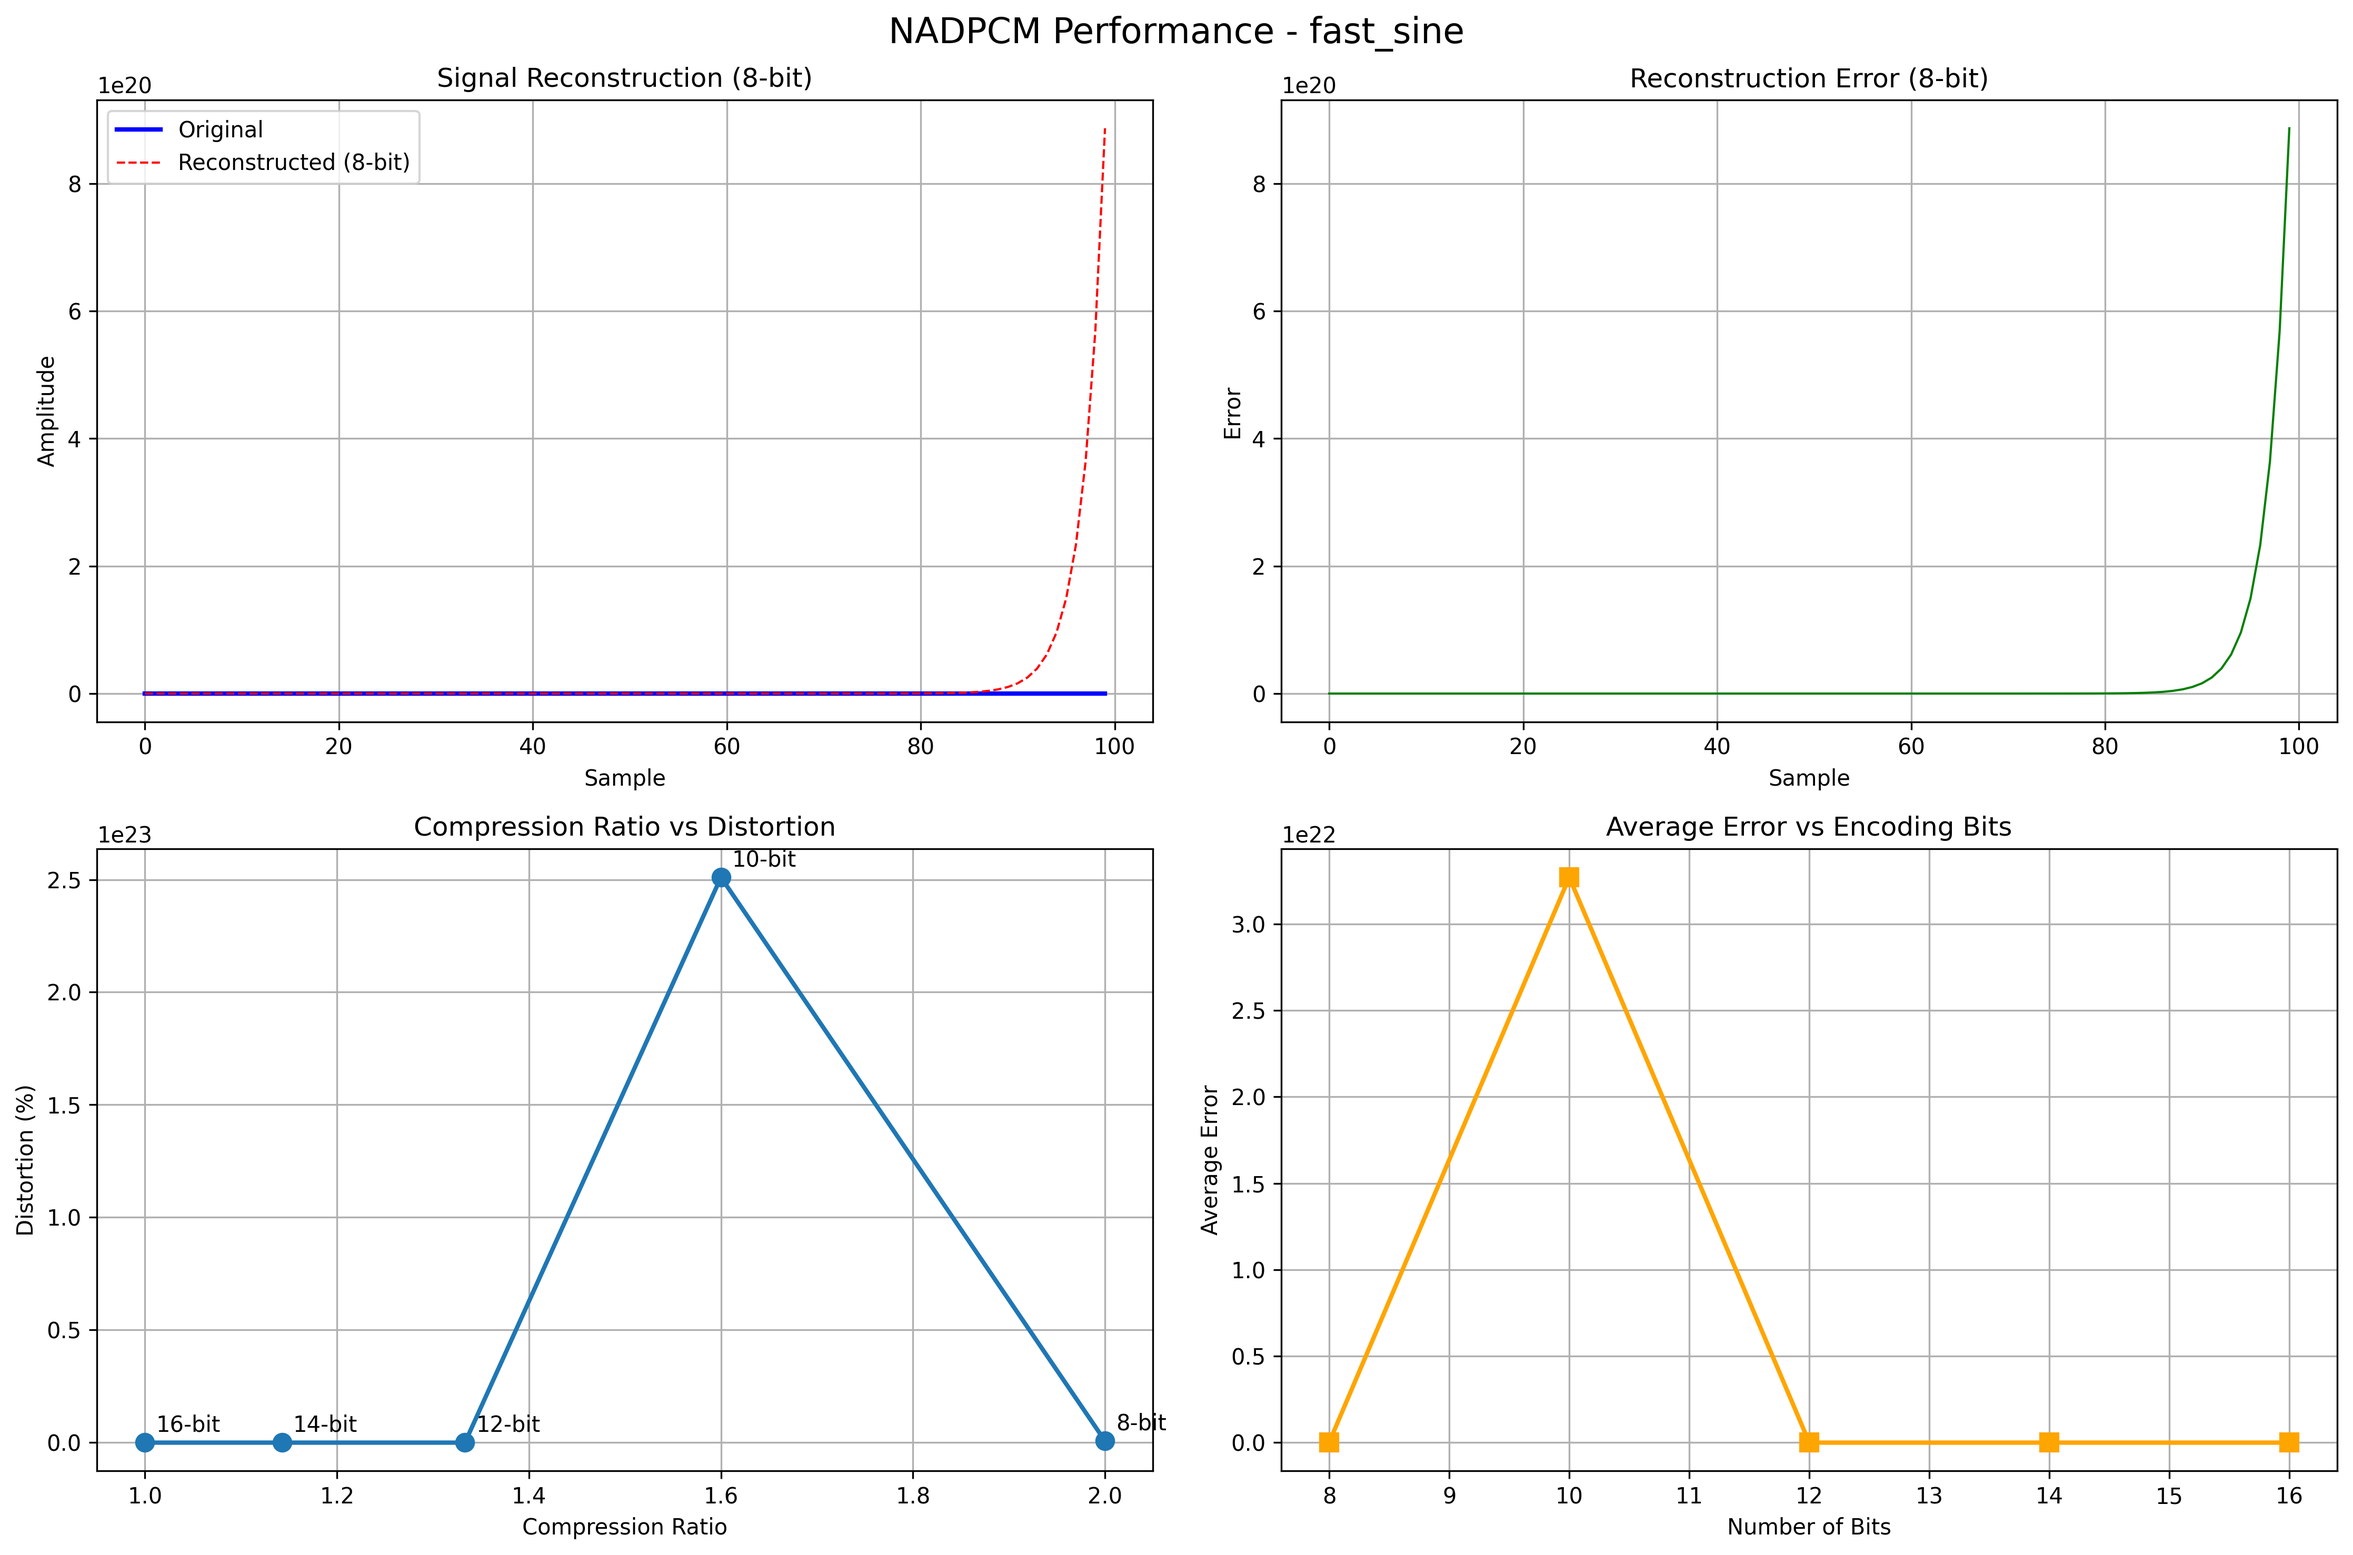
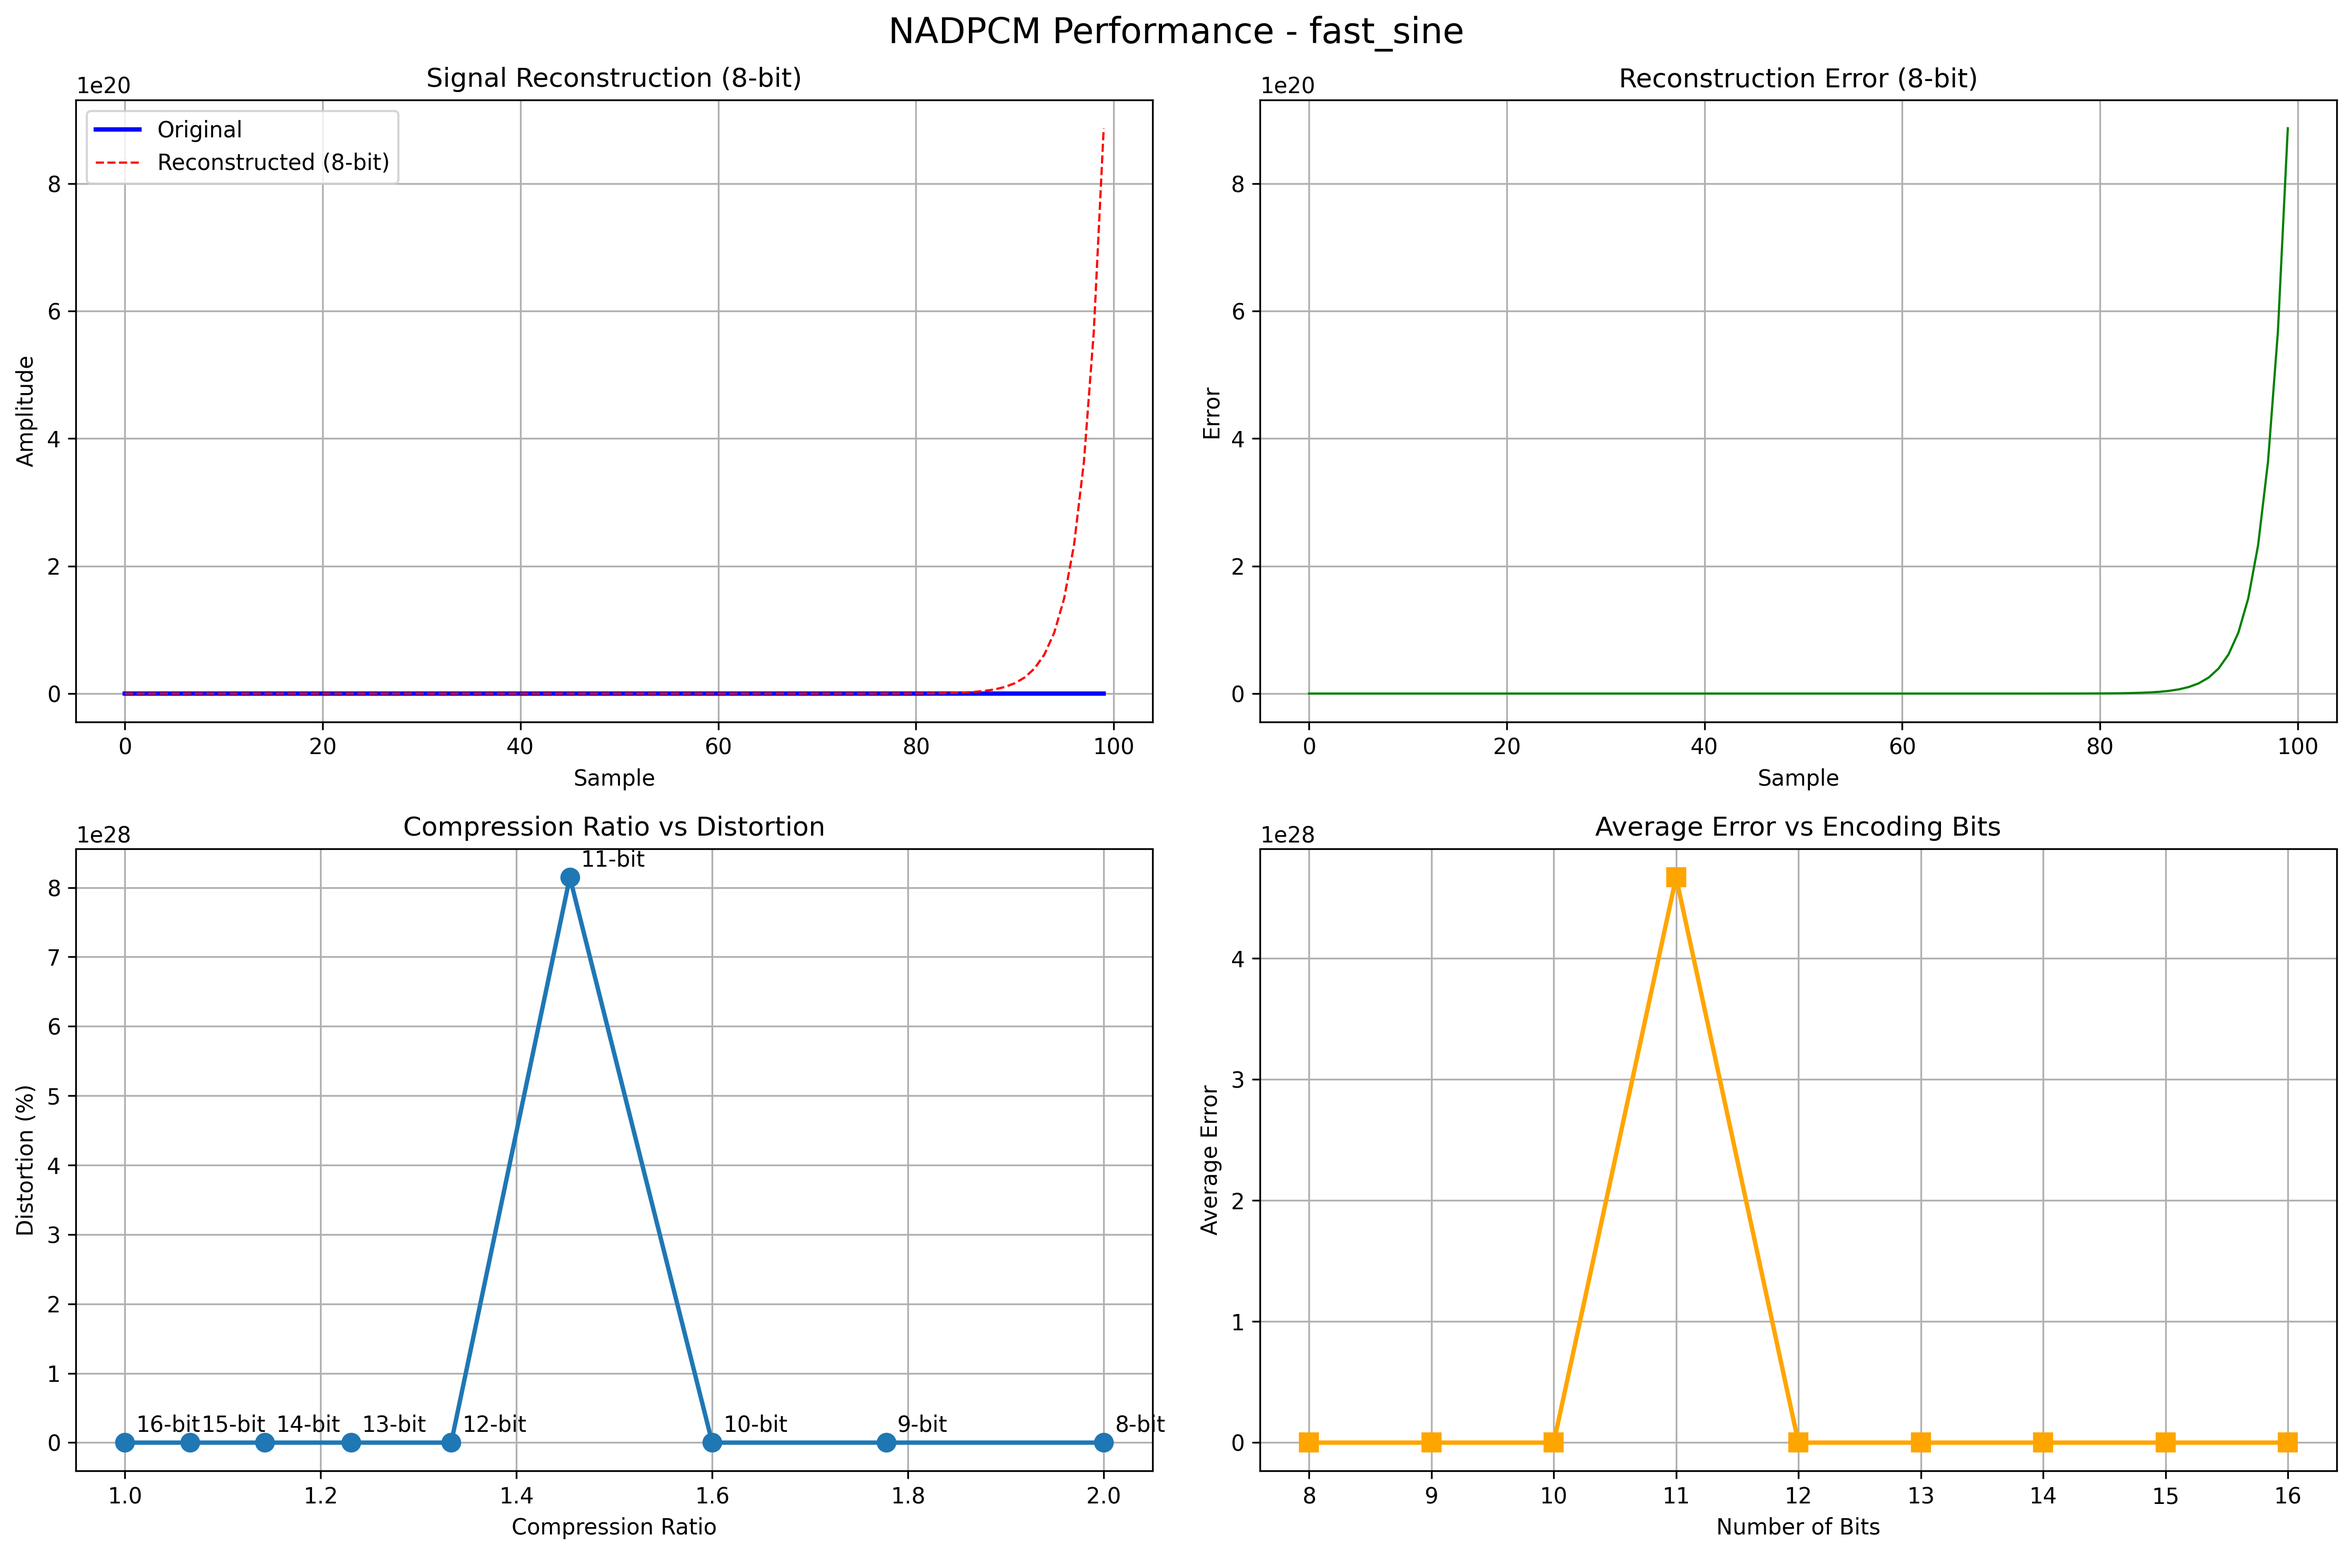
reset template

diff --git a/lab1-template.py b/lab1-template.py
@@ -12,12 +12,12 @@ from matplotlib import pyplot as plt
 import lab1_ndpcm_library
 
 ### General parameters
-n_bits = 12;
+n_bits = 16;
 n = 100; # number of iterations
 h_depth = 3; ## for now hardcode size of history to last 3 values
 
 ### Generate sample ADC data 
-x = np.linspace( 0, 1*pi, n ) 
+x = np.linspace( 0, 2*pi, n ) 
 # useful to evaluate function at lots of points 
 f_original = np.sin(x)
 ## Scale to range 0-4095
@@ -40,7 +40,6 @@ for k in range (1, n-1):
     y_hat = lab1_ndpcm_library.predict(tx_data, k)
     eq = lab1_ndpcm_library.calculate_error(tx_data, k, f[k])
     y_rec = lab1_ndpcm_library.reconstruct(tx_data, k)
-    
 
     e[k] = f[k] - y_hat;  # Save 
     ## communication (e.g. inject error)
@@ -52,6 +51,8 @@ for k in range (1, n-1):
     y_hat_rx = lab1_ndpcm_library.predict(rx_data, k)
     # No need to calculate ERROR - since it was received
     y_rec_rx = lab1_ndpcm_library.reconstruct(rx_data, k)
+
+
 # print(tx_data)
 # print(rx_data)
 e_all = np.abs(rx_data.y_recreated - f)
@@ -85,26 +86,4 @@ plt.plot(tt, e, label="true error")
 plt.legend()
 plt.savefig("lab1.png")
 
-plt.show()
-
-# Calculate distortion (percentage error)
-distortion = np.abs((rx_data.y_recreated - f) / f) * 100
-average_distortion = np.mean(distortion)
-print(f"Average Distortion: {average_distortion:.2f}%")
-
-# Calculate compression ratio
-original_bits = 16 * n  # Assuming original data is 16-bit ADC values
-compressed_bits = n_bits * n
-compression_ratio = original_bits / compressed_bits
-print(f"Compression Ratio: {compression_ratio:.2f}:1 (Original: {original_bits} bits, Compressed: {compressed_bits} bits)")
-
-# Add distortion plot
-plt.figure()
-plt.plot(tt, distortion, label="Distortion (%)")
-plt.xlabel("Iteration")
-plt.ylabel("Distortion (%)")
-plt.title("Reconstruction Distortion")
-plt.legend()
-plt.grid(True)
-plt.savefig("distortion.png")
 plt.show()

diff --git a/nadpcm_experiment.py b/nadpcm_experiment.py
@@ -8,7 +8,7 @@ from lab1_ndpcm_library import init, prepare_params_for_prediction, predict, cal
 
 def run_nadpcm_experiment():
     
-    n_bits_list = [8, 10, 12, 14, 16]  
+    n_bits_list = [8, 9, 10, 11, 12, 13, 14, 15, 16]  
     n = 100  
     h_depth = 3  
     
@@ -132,6 +132,7 @@ def plot_results(results):
         plt.tight_layout()
         plt.savefig(f'nadpcm_results_{signal_name}.png', dpi=300, bbox_inches='tight')
         plt.show()
+
 def print_performance_table(results):
     """打印性能对比表"""
     print("\n" + "="*80)
